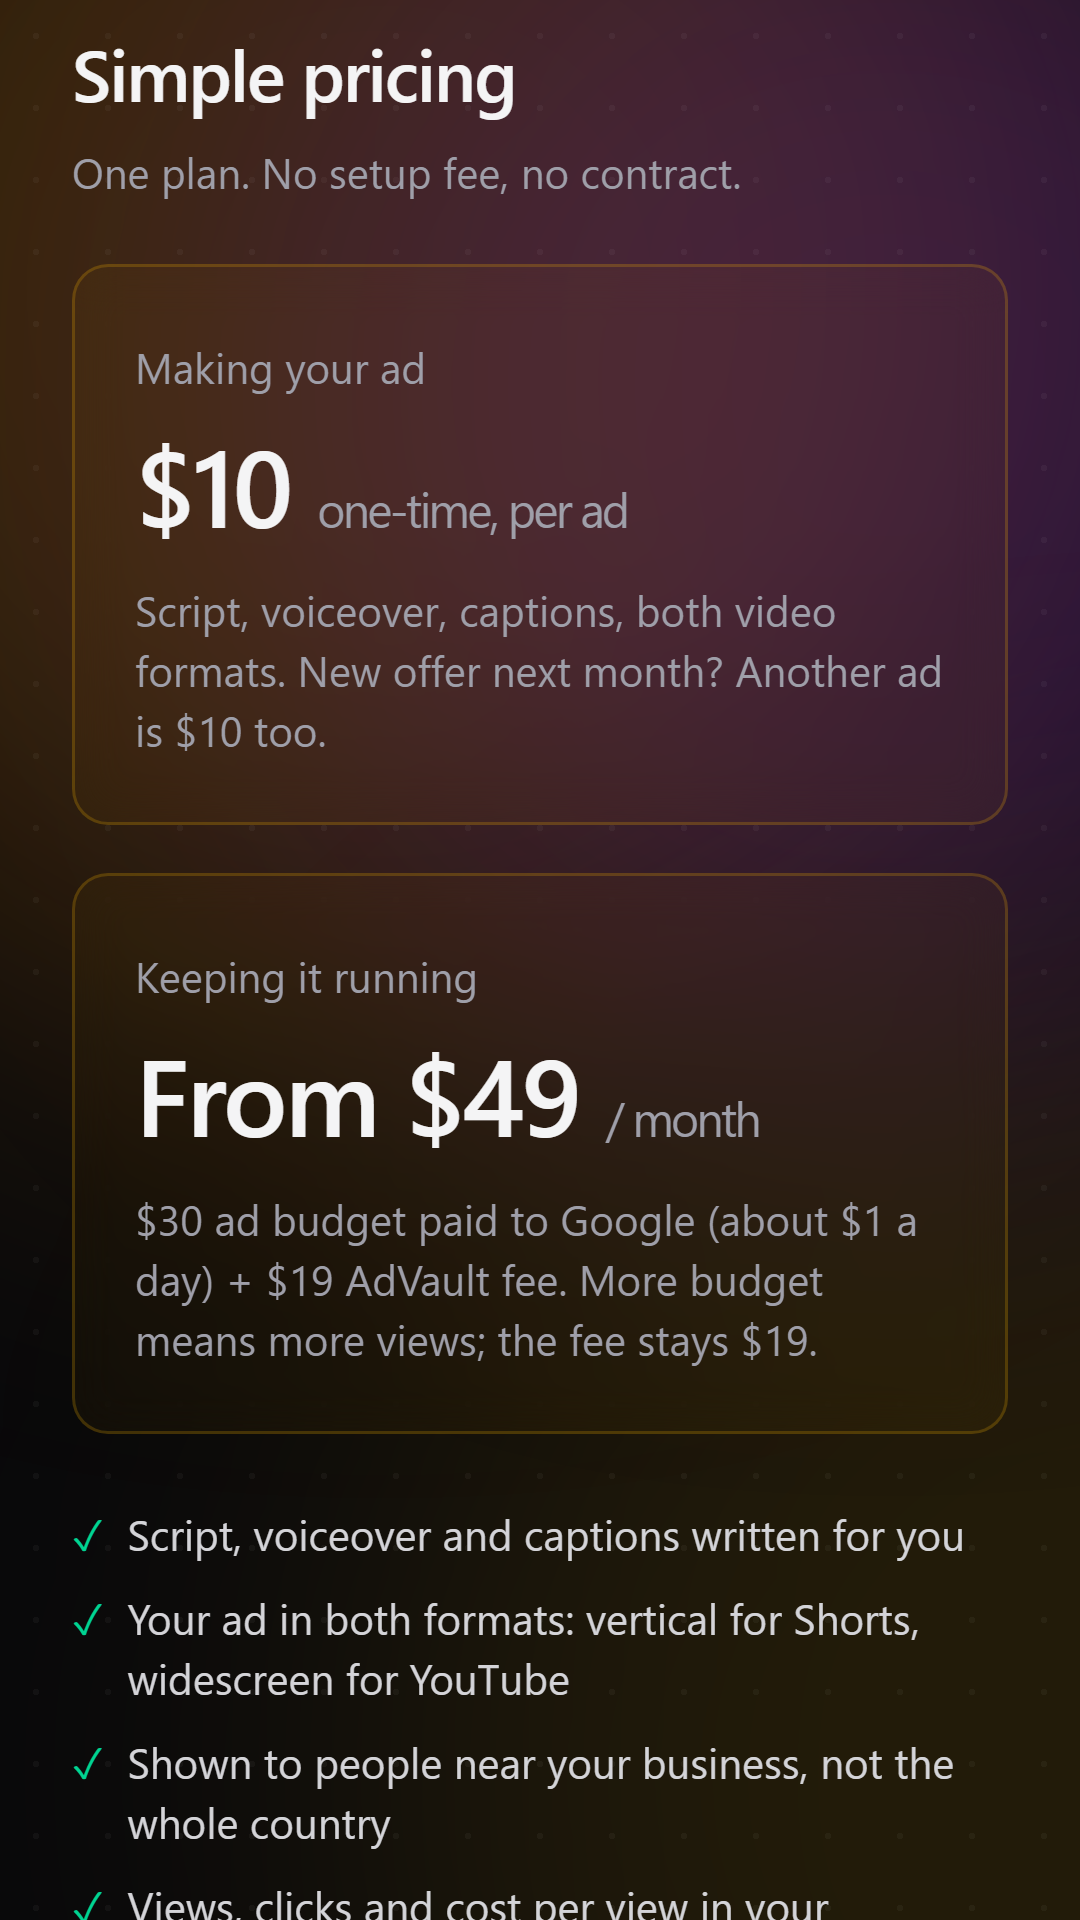
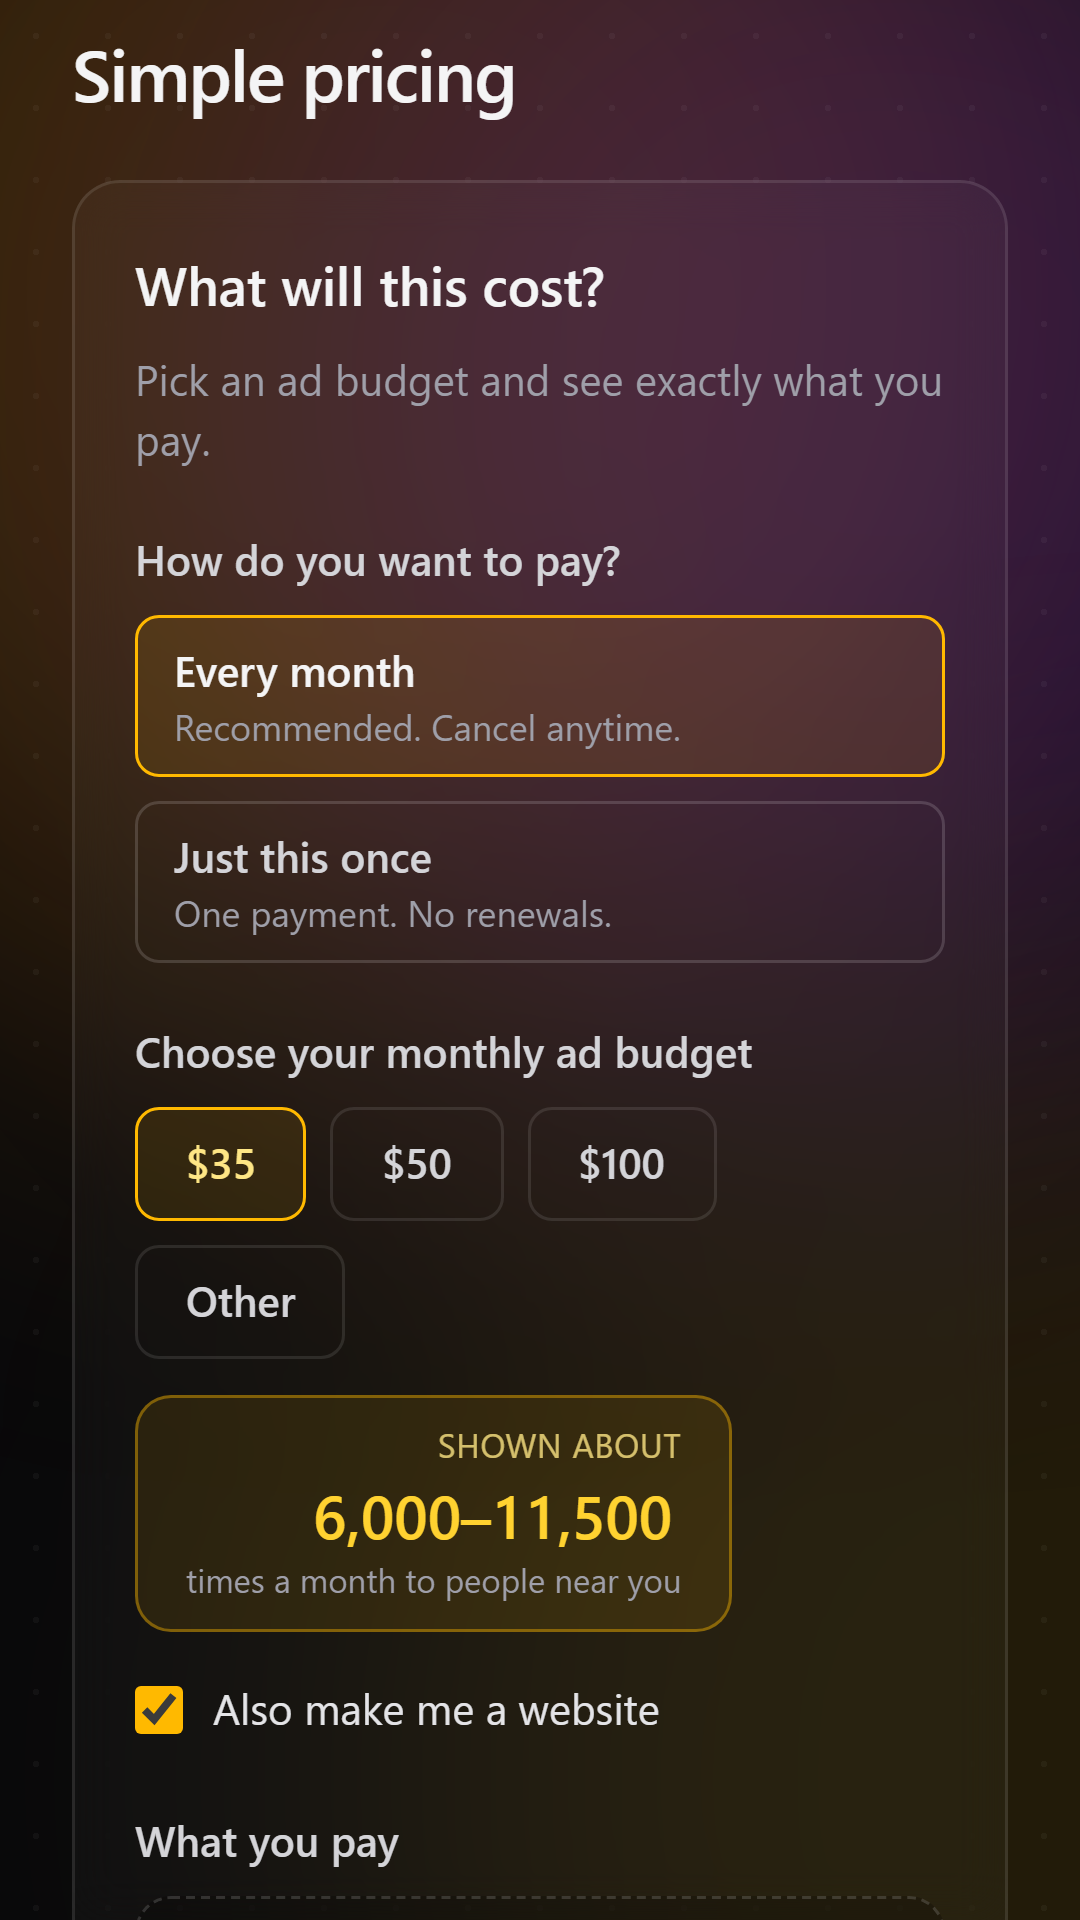
Play listing: current pricing (from $55/month), times shown, advault@ contact; fresh screenshots

diff --git a/infra/play-store/listing.md b/infra/play-store/listing.md
@@ -1,6 +1,6 @@
 # Google Play listing: AdVault
 
-Package `com.threepandalabs.advault` · Developer: 3PandaLabs LLC (organization account) · Category: **Business** · Free to install · No ads in the app · No purchases through Google Play Billing. AdVault sells YouTube ads for local businesses ($10 per ad made, $19/month to keep it running, plus the customer's ad budget), paid by card through Stripe Checkout. US only. Google isn't requiring Play Billing for US users while the US court order stands (support.google.com/googleplay/android-developer/answer/15582165), and the ad itself runs on YouTube, outside the app. Answer the Play Console payments declaration to match.
+Package `com.threepandalabs.advault` · Developer: 3PandaLabs LLC (organization account) · Category: **Business** · Free to install · No ads in the app · No purchases through Google Play Billing. AdVault sells YouTube ads for local businesses (from $55/month: $20 plan + the customer's ad budget from $35; $10 per new ad; or a one-off ad with no plan), paid by card through Stripe Checkout. US only. Google isn't requiring Play Billing for US users while the US court order stands (support.google.com/googleplay/android-developer/answer/15582165), and the ad itself runs on YouTube, outside the app. Answer the Play Console payments declaration to match.
 
 ## App name (30)
 AdVault by 3PandaLabs
@@ -11,18 +11,19 @@ YouTube and Shorts ads for your local business, made from your own photos.
 ## Full description (4000)
 Get your local business on YouTube without hiring an agency or learning Google Ads.
 
-Upload a few photos of your shop, your team or your work, or snap them right in the app. AdVault turns them into a vertical Shorts ad and a widescreen YouTube ad, with a script written for your kind of business. Pick the area around you, set a daily budget, and we run the ad on YouTube for people nearby.
+Upload a few photos of your shop, your team or your work, or snap them right in the app. AdVault turns them into a vertical Shorts ad and a widescreen YouTube ad, with a script written for your kind of business. Pick the area around you, set a monthly budget, and we run the ad on YouTube for people nearby.
 
 HOW IT WORKS
 • Add photos from your gallery or take them with your camera.
 • We write the script and make the video, in both Shorts (9:16) and YouTube (16:9) shapes.
-• Choose where your customers are and how much to spend a day.
-• We launch it on YouTube and keep it running. You see views, clicks and spend in the app.
+• Choose where your customers are and how much to spend a month.
+• We launch it on YouTube and keep it running. You see times shown, clicks and spend in the app.
 • Already have a video? Upload it instead, free. We review it before it goes live.
 
 SIMPLE PRICING
-• $10 for each ad we make.
-• $19 a month to keep it running, plus your own ad budget, which goes to Google.
+• From $55 a month to keep your ad running: $20 for AdVault plus your ad budget (from $35), which goes to Google.
+• $10 for each new ad we make.
+• Or run an ad just once, with no monthly plan.
 • No contract. Cancel any time.
 
 Made for plumbers, salons, dentists, realtors, restaurants and every local business that wants to be seen by the people around it.
@@ -32,7 +33,7 @@ Delete your account any time from Settings.
 Made by 3PandaLabs.
 
 ## Contact
-- Email: support@3pandalabs.com
+- Email: advault@3pandalabs.com (alias of the public 3pandas@ inbox)
 - Website: https://advault.3pandalabs.com
 - Privacy policy: https://advault.3pandalabs.com/privacy
 - Account deletion URL: https://advault.3pandalabs.com/privacy#delete-account (public; says Settings → Delete account in the app or on the web, or email privacy@3pandalabs.com for people who can't sign in)
